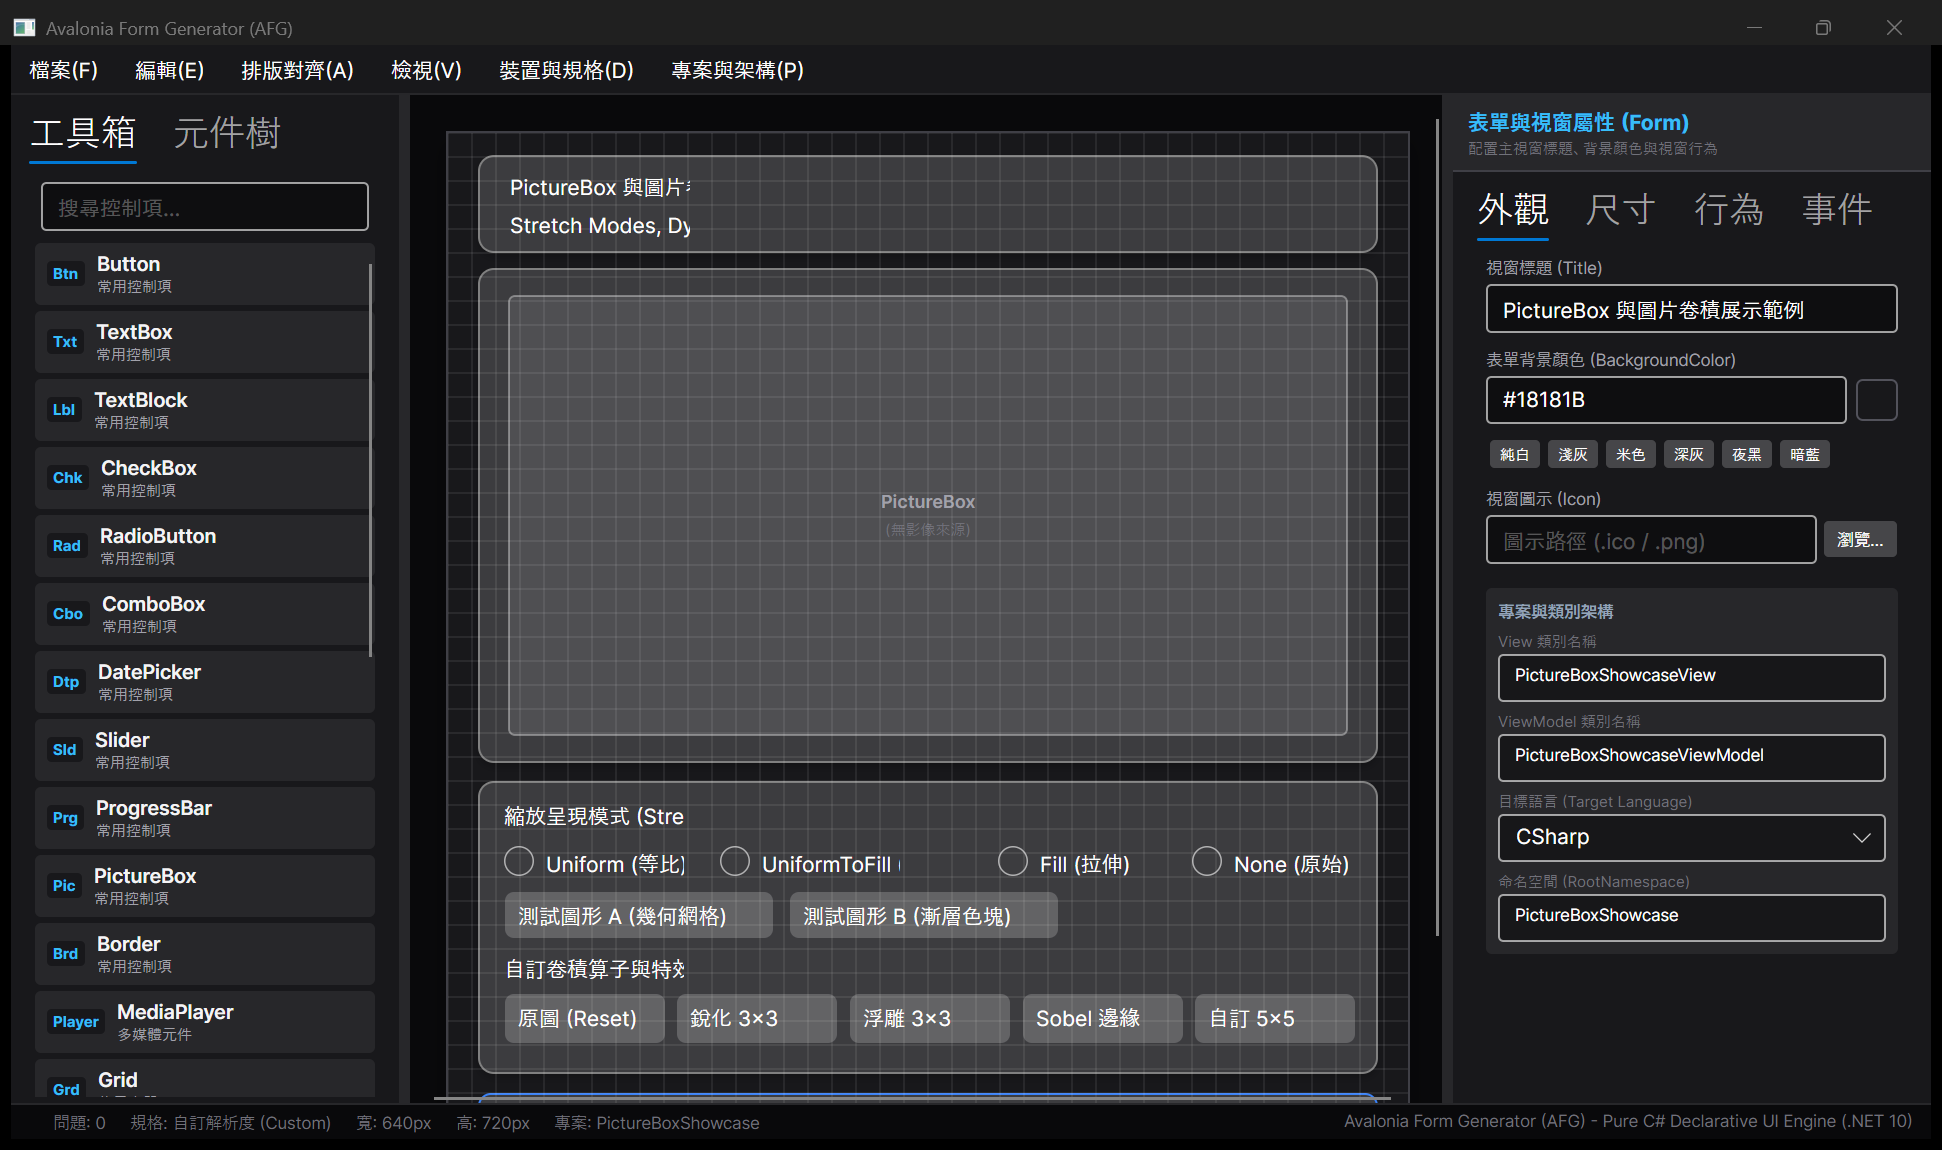
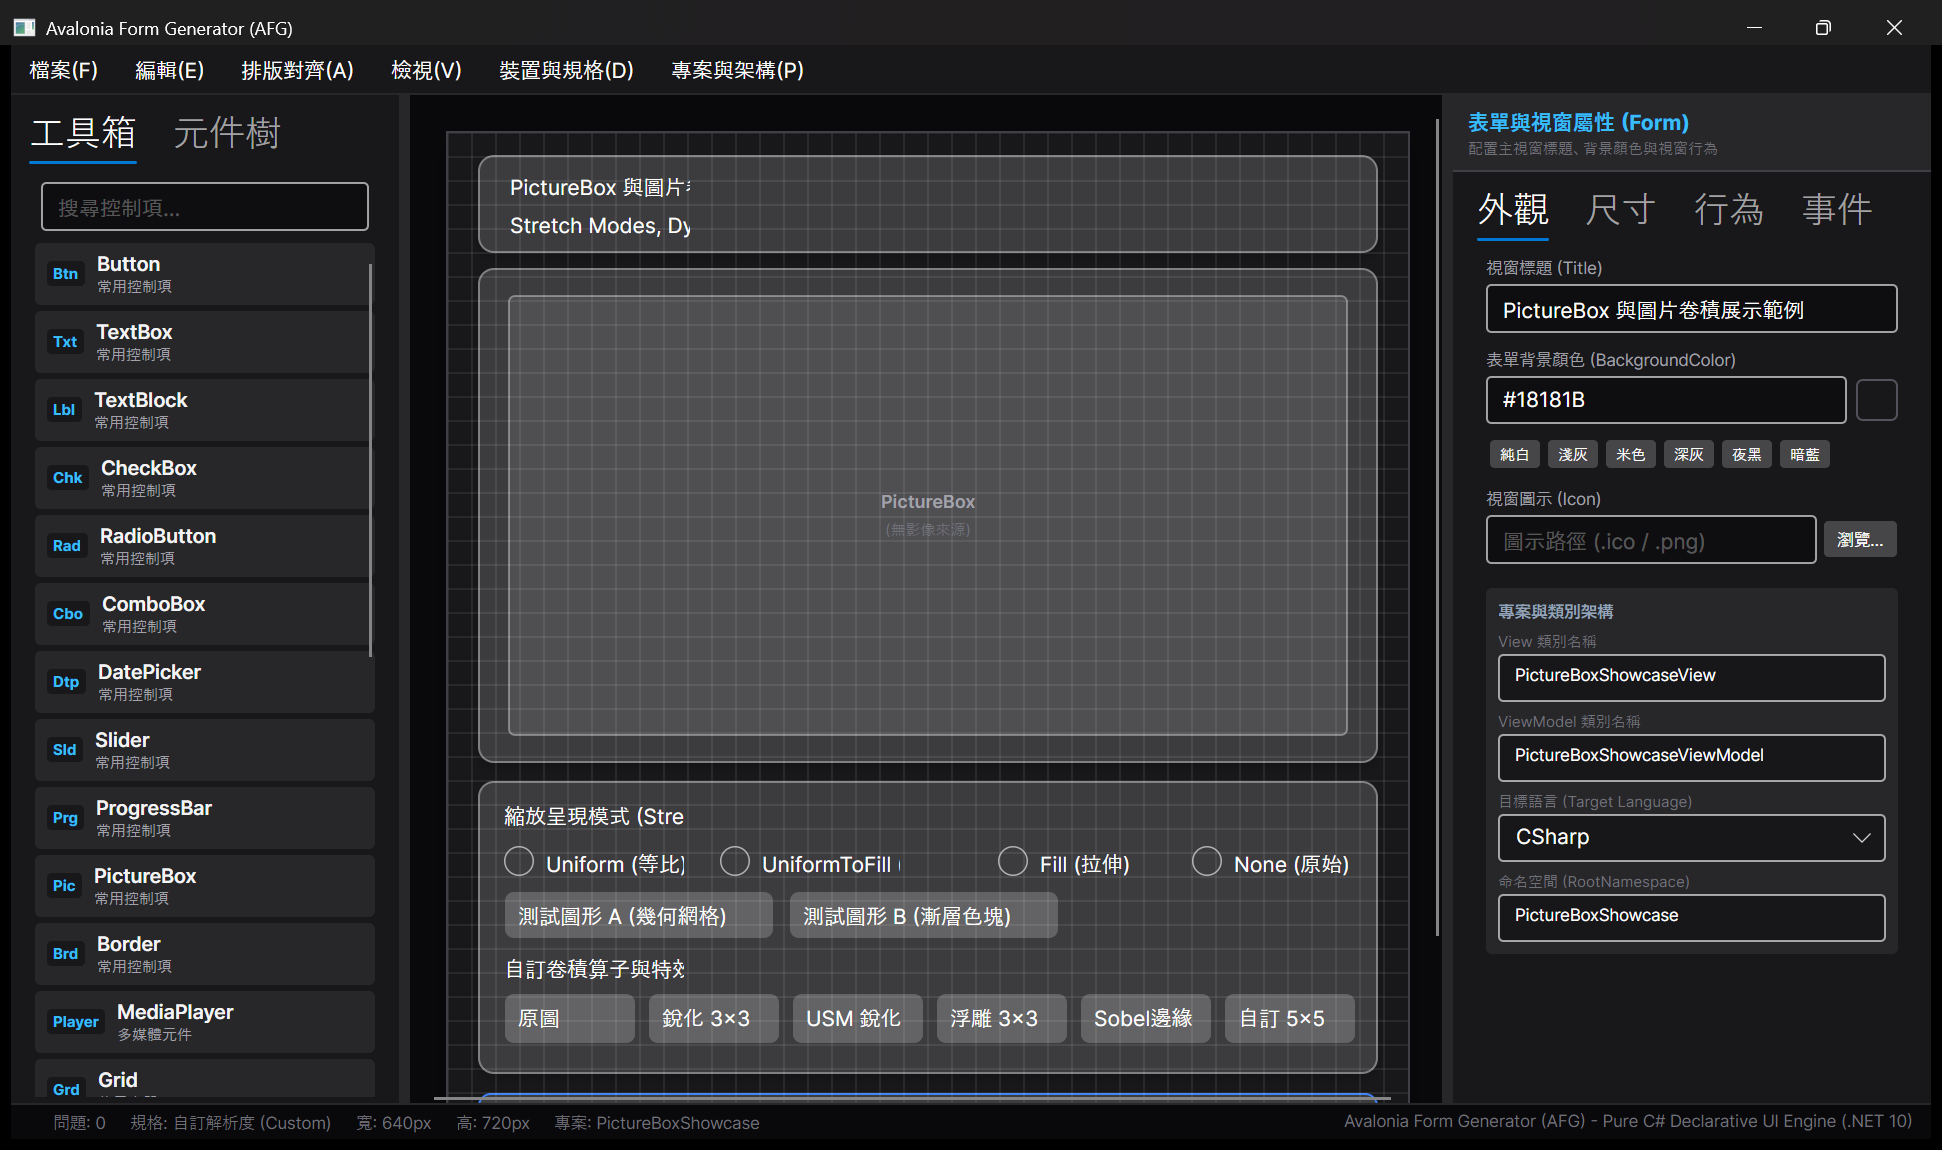
feat(examples): add USM filter to PictureBox
Rearrange the PictureBoxShowcase convolution bar into six
symmetric buttons including USM Sharpen using the new
UnsharpMask extension, update AST and README documentation,
and recapture unclipped full-window screenshots.

Changed region(s): [[0.2781, 0.8522, 0.6797, 0.913], [0.0309, 0.0, 0.1545, 0.0304]]

diff --git a/tests/AFG.Core.Tests/ShowcaseExamplesDocumentBuilder.cs b/tests/AFG.Core.Tests/ShowcaseExamplesDocumentBuilder.cs
@@ -456,11 +456,12 @@ public static class ShowcaseExamplesDocumentBuilder
                             new AstNode { Id = "btnSampleA", Name = "btnSampleA", Type = ControlType.Button, CanvasLeft = 16, CanvasTop = 72, Width = 180, Height = 32, Content = "測試圖形 A (幾何網格)", Background = "#4F46E5", Foreground = "#FFFFFF", FontSize = 12, CornerRadius = new CornerRadiusModel(6, 6, 6, 6), Events = [new EventMappingDefinition { EventName = "Click", CommandProperty = "LoadSampleACommand", IsAsync = true }] },
                             new AstNode { Id = "btnSampleB", Name = "btnSampleB", Type = ControlType.Button, CanvasLeft = 206, CanvasTop = 72, Width = 180, Height = 32, Content = "測試圖形 B (漸層色塊)", Background = "#059669", Foreground = "#FFFFFF", FontSize = 12, CornerRadius = new CornerRadiusModel(6, 6, 6, 6), Events = [new EventMappingDefinition { EventName = "Click", CommandProperty = "LoadSampleBCommand", IsAsync = true }] },
                             new AstNode { Id = "lblConvTitle", Name = "lblConvTitle", Type = ControlType.TextBlock, CanvasLeft = 16, CanvasTop = 114, Text = "自訂卷積算子與特效 (ImageConvolution)：", FontSize = 13, FontWeight = "Bold", Foreground = "#F472B6" },
-                            new AstNode { Id = "btnConvReset", Name = "btnConvReset", Type = ControlType.Button, CanvasLeft = 16, CanvasTop = 140, Width = 108, Height = 34, Content = "原圖 (Reset)", Background = "#475569", Foreground = "#FFFFFF", FontSize = 11, CornerRadius = new CornerRadiusModel(6, 6, 6, 6), Events = [new EventMappingDefinition { EventName = "Click", CommandProperty = "ResetFilterCommand", IsAsync = false }] },
-                            new AstNode { Id = "btnConvSharpen", Name = "btnConvSharpen", Type = ControlType.Button, CanvasLeft = 131, CanvasTop = 140, Width = 108, Height = 34, Content = "銳化 3×3", Background = "#0284C7", Foreground = "#FFFFFF", FontSize = 11, CornerRadius = new CornerRadiusModel(6, 6, 6, 6), Events = [new EventMappingDefinition { EventName = "Click", CommandProperty = "ApplySharpenCommand", IsAsync = false }] },
-                            new AstNode { Id = "btnConvEmboss", Name = "btnConvEmboss", Type = ControlType.Button, CanvasLeft = 246, CanvasTop = 140, Width = 108, Height = 34, Content = "浮雕 3×3", Background = "#7C3AED", Foreground = "#FFFFFF", FontSize = 11, CornerRadius = new CornerRadiusModel(6, 6, 6, 6), Events = [new EventMappingDefinition { EventName = "Click", CommandProperty = "ApplyEmbossCommand", IsAsync = false }] },
-                            new AstNode { Id = "btnConvSobel", Name = "btnConvSobel", Type = ControlType.Button, CanvasLeft = 361, CanvasTop = 140, Width = 108, Height = 34, Content = "Sobel 邊緣", Background = "#EA580C", Foreground = "#FFFFFF", FontSize = 11, CornerRadius = new CornerRadiusModel(6, 6, 6, 6), Events = [new EventMappingDefinition { EventName = "Click", CommandProperty = "ApplySobelCommand", IsAsync = false }] },
-                            new AstNode { Id = "btnConvCustom", Name = "btnConvCustom", Type = ControlType.Button, CanvasLeft = 476, CanvasTop = 140, Width = 108, Height = 34, Content = "自訂 5×5", Background = "#DB2777", Foreground = "#FFFFFF", FontSize = 11, CornerRadius = new CornerRadiusModel(6, 6, 6, 6), Events = [new EventMappingDefinition { EventName = "Click", CommandProperty = "ApplyCustomKernelCommand", IsAsync = false }] }
+                            new AstNode { Id = "btnConvReset", Name = "btnConvReset", Type = ControlType.Button, CanvasLeft = 16, CanvasTop = 140, Width = 88, Height = 34, Content = "原圖", Background = "#475569", Foreground = "#FFFFFF", FontSize = 11, CornerRadius = new CornerRadiusModel(6, 6, 6, 6), Events = [new EventMappingDefinition { EventName = "Click", CommandProperty = "ResetFilterCommand", IsAsync = false }] },
+                            new AstNode { Id = "btnConvSharpen", Name = "btnConvSharpen", Type = ControlType.Button, CanvasLeft = 112, CanvasTop = 140, Width = 88, Height = 34, Content = "銳化 3×3", Background = "#0284C7", Foreground = "#FFFFFF", FontSize = 11, CornerRadius = new CornerRadiusModel(6, 6, 6, 6), Events = [new EventMappingDefinition { EventName = "Click", CommandProperty = "ApplySharpenCommand", IsAsync = false }] },
+                            new AstNode { Id = "btnConvUnsharp", Name = "btnConvUnsharp", Type = ControlType.Button, CanvasLeft = 208, CanvasTop = 140, Width = 88, Height = 34, Content = "USM 銳化", Background = "#0D9488", Foreground = "#FFFFFF", FontSize = 11, CornerRadius = new CornerRadiusModel(6, 6, 6, 6), Events = [new EventMappingDefinition { EventName = "Click", CommandProperty = "ApplyUnsharpMaskCommand", IsAsync = false }] },
+                            new AstNode { Id = "btnConvEmboss", Name = "btnConvEmboss", Type = ControlType.Button, CanvasLeft = 304, CanvasTop = 140, Width = 88, Height = 34, Content = "浮雕 3×3", Background = "#7C3AED", Foreground = "#FFFFFF", FontSize = 11, CornerRadius = new CornerRadiusModel(6, 6, 6, 6), Events = [new EventMappingDefinition { EventName = "Click", CommandProperty = "ApplyEmbossCommand", IsAsync = false }] },
+                            new AstNode { Id = "btnConvSobel", Name = "btnConvSobel", Type = ControlType.Button, CanvasLeft = 400, CanvasTop = 140, Width = 88, Height = 34, Content = "Sobel邊緣", Background = "#EA580C", Foreground = "#FFFFFF", FontSize = 11, CornerRadius = new CornerRadiusModel(6, 6, 6, 6), Events = [new EventMappingDefinition { EventName = "Click", CommandProperty = "ApplySobelCommand", IsAsync = false }] },
+                            new AstNode { Id = "btnConvCustom", Name = "btnConvCustom", Type = ControlType.Button, CanvasLeft = 496, CanvasTop = 140, Width = 88, Height = 34, Content = "自訂 5×5", Background = "#DB2777", Foreground = "#FFFFFF", FontSize = 11, CornerRadius = new CornerRadiusModel(6, 6, 6, 6), Events = [new EventMappingDefinition { EventName = "Click", CommandProperty = "ApplyCustomKernelCommand", IsAsync = false }] }
                         ]
                     },
 

diff --git a/example/PictureBoxShowcase/src/PictureBoxShowcase.Shared/Views/PictureBoxShowcaseView.cs b/example/PictureBoxShowcase/src/PictureBoxShowcase.Shared/Views/PictureBoxShowcaseView.cs
@@ -23,6 +23,7 @@ public partial class PictureBoxShowcaseView : UserControl
     private TextBlock _lblConvTitle;
     private Button _btnConvReset;
     private Button _btnConvSharpen;
+    private Button _btnConvUnsharp;
     private Button _btnConvEmboss;
     private Button _btnConvSobel;
     private Button _btnConvCustom;
@@ -178,11 +179,11 @@ public partial class PictureBoxShowcaseView : UserControl
                         // btnConvReset
                         _btnConvReset = new Button()
                             .Name("btnConvReset")
-                            .Width(108)
+                            .Width(88)
                             .Height(34)
                             .CanvasLeft(16)
                             .CanvasTop(140)
-                            .Content("原圖 (Reset)")
+                            .Content("原圖")
                             .FontSize(11)
                             .Background(Brush.Parse("#475569"))
                             .Foreground(Brush.Parse("#FFFFFF"))
@@ -191,9 +192,9 @@ public partial class PictureBoxShowcaseView : UserControl
                         // btnConvSharpen
                         _btnConvSharpen = new Button()
                             .Name("btnConvSharpen")
-                            .Width(108)
+                            .Width(88)
                             .Height(34)
-                            .CanvasLeft(131)
+                            .CanvasLeft(112)
                             .CanvasTop(140)
                             .Content("銳化 3×3")
                             .FontSize(11)
@@ -201,12 +202,25 @@ public partial class PictureBoxShowcaseView : UserControl
                             .Foreground(Brush.Parse("#FFFFFF"))
                             .CornerRadius(new CornerRadius(6, 6, 6, 6))
                             .OnClick((PictureBoxShowcaseViewModel vm) => vm.ApplySharpenCommand),
+                        // btnConvUnsharp
+                        _btnConvUnsharp = new Button()
+                            .Name("btnConvUnsharp")
+                            .Width(88)
+                            .Height(34)
+                            .CanvasLeft(208)
+                            .CanvasTop(140)
+                            .Content("USM 銳化")
+                            .FontSize(11)
+                            .Background(Brush.Parse("#0D9488"))
+                            .Foreground(Brush.Parse("#FFFFFF"))
+                            .CornerRadius(new CornerRadius(6, 6, 6, 6))
+                            .OnClick((PictureBoxShowcaseViewModel vm) => vm.ApplyUnsharpMaskCommand),
                         // btnConvEmboss
                         _btnConvEmboss = new Button()
                             .Name("btnConvEmboss")
-                            .Width(108)
+                            .Width(88)
                             .Height(34)
-                            .CanvasLeft(246)
+                            .CanvasLeft(304)
                             .CanvasTop(140)
                             .Content("浮雕 3×3")
                             .FontSize(11)
@@ -217,11 +231,11 @@ public partial class PictureBoxShowcaseView : UserControl
                         // btnConvSobel
                         _btnConvSobel = new Button()
                             .Name("btnConvSobel")
-                            .Width(108)
+                            .Width(88)
                             .Height(34)
-                            .CanvasLeft(361)
+                            .CanvasLeft(400)
                             .CanvasTop(140)
-                            .Content("Sobel 邊緣")
+                            .Content("Sobel邊緣")
                             .FontSize(11)
                             .Background(Brush.Parse("#EA580C"))
                             .Foreground(Brush.Parse("#FFFFFF"))
@@ -230,9 +244,9 @@ public partial class PictureBoxShowcaseView : UserControl
                         // btnConvCustom
                         _btnConvCustom = new Button()
                             .Name("btnConvCustom")
-                            .Width(108)
+                            .Width(88)
                             .Height(34)
-                            .CanvasLeft(476)
+                            .CanvasLeft(496)
                             .CanvasTop(140)
                             .Content("自訂 5×5")
                             .FontSize(11)

diff --git a/example/PictureBoxShowcase/ShowcaseBuilder.cs b/example/PictureBoxShowcase/ShowcaseBuilder.cs
@@ -282,11 +282,11 @@ public static class ShowcaseBuilder
             Id = "btnConvReset",
             Name = "btnConvReset",
             Type = ControlType.Button,
-            Width = 108,
+            Width = 88,
             Height = 34,
             CanvasLeft = 16,
             CanvasTop = 140,
-            Content = "原圖 (Reset)",
+            Content = "原圖",
             Background = "#475569",
             Foreground = "#FFFFFF",
             FontSize = 11,
@@ -299,9 +299,9 @@ public static class ShowcaseBuilder
             Id = "btnConvSharpen",
             Name = "btnConvSharpen",
             Type = ControlType.Button,
-            Width = 108,
+            Width = 88,
             Height = 34,
-            CanvasLeft = 131,
+            CanvasLeft = 112,
             CanvasTop = 140,
             Content = "銳化 3×3",
             Background = "#0284C7",
@@ -311,14 +311,31 @@ public static class ShowcaseBuilder
             Events = [new EventMappingDefinition { EventName = "Click", CommandProperty = "ApplySharpenCommand", IsAsync = false }]
         };
 
+        var btnConvUnsharp = new AstNode
+        {
+            Id = "btnConvUnsharp",
+            Name = "btnConvUnsharp",
+            Type = ControlType.Button,
+            Width = 88,
+            Height = 34,
+            CanvasLeft = 208,
+            CanvasTop = 140,
+            Content = "USM 銳化",
+            Background = "#0D9488",
+            Foreground = "#FFFFFF",
+            FontSize = 11,
+            CornerRadius = new CornerRadiusModel(6),
+            Events = [new EventMappingDefinition { EventName = "Click", CommandProperty = "ApplyUnsharpMaskCommand", IsAsync = false }]
+        };
+
         var btnConvEmboss = new AstNode
         {
             Id = "btnConvEmboss",
             Name = "btnConvEmboss",
             Type = ControlType.Button,
-            Width = 108,
+            Width = 88,
             Height = 34,
-            CanvasLeft = 246,
+            CanvasLeft = 304,
             CanvasTop = 140,
             Content = "浮雕 3×3",
             Background = "#7C3AED",
@@ -333,11 +350,11 @@ public static class ShowcaseBuilder
             Id = "btnConvSobel",
             Name = "btnConvSobel",
             Type = ControlType.Button,
-            Width = 108,
+            Width = 88,
             Height = 34,
-            CanvasLeft = 361,
+            CanvasLeft = 400,
             CanvasTop = 140,
-            Content = "Sobel 邊緣",
+            Content = "Sobel邊緣",
             Background = "#EA580C",
             Foreground = "#FFFFFF",
             FontSize = 11,
@@ -350,9 +367,9 @@ public static class ShowcaseBuilder
             Id = "btnConvCustom",
             Name = "btnConvCustom",
             Type = ControlType.Button,
-            Width = 108,
+            Width = 88,
             Height = 34,
-            CanvasLeft = 476,
+            CanvasLeft = 496,
             CanvasTop = 140,
             Content = "自訂 5×5",
             Background = "#DB2777",
@@ -386,6 +403,7 @@ public static class ShowcaseBuilder
                 lblConvTitle,
                 btnConvReset,
                 btnConvSharpen,
+                btnConvUnsharp,
                 btnConvEmboss,
                 btnConvSobel,
                 btnConvCustom

diff --git a/example/PictureBoxShowcase/src/PictureBoxShowcase.Shared/ViewModels/PictureBoxShowcaseViewModel.cs b/example/PictureBoxShowcase/src/PictureBoxShowcase.Shared/ViewModels/PictureBoxShowcaseViewModel.cs
@@ -181,7 +181,26 @@ public partial class PictureBoxShowcaseViewModel : ObservableObject
     }
 
     [RelayCommand]
-    private void ApplySharpen() => ApplyKernelCore("銳化 3×3", ConvolutionKernel.Sharpen);
+    private void ApplySharpen()
+    {
+        long startTimestamp = Stopwatch.GetTimestamp();
+        WriteableBitmap filtered = _sourceBitmap.Sharpen(1.0f);
+        _lastFilterElapsedMs = Stopwatch.GetElapsedTime(startTimestamp).TotalMilliseconds;
+        _currentFilterName = "銳化 3×3";
+        ImageSource = filtered;
+        UpdateImageInfoText();
+    }
+
+    [RelayCommand]
+    private void ApplyUnsharpMask()
+    {
+        long startTimestamp = Stopwatch.GetTimestamp();
+        WriteableBitmap filtered = _sourceBitmap.UnsharpMask(radius: 3, amount: 1.5f, threshold: 4.0f);
+        _lastFilterElapsedMs = Stopwatch.GetElapsedTime(startTimestamp).TotalMilliseconds;
+        _currentFilterName = "USM 銳化 (r=3)";
+        ImageSource = filtered;
+        UpdateImageInfoText();
+    }
 
     [RelayCommand]
     private void ApplyEmboss() => ApplyKernelCore("浮雕 3×3", ConvolutionKernel.Emboss);

diff --git a/example/PictureBoxShowcase/README.md b/example/PictureBoxShowcase/README.md
@@ -80,11 +80,12 @@ example/PictureBoxShowcase/
 | ├── `btnSampleA` | `Button` | `(16, 72) 180 × 32` | `Click` 映射 `LoadSampleACommand` | 載入科技幾何網格 (800 × 600) |
 | ├── `btnSampleB` | `Button` | `(206, 72) 180 × 32` | `Click` 映射 `LoadSampleBCommand` | 載入同心光環光譜 (1024 × 768) |
 | ├── `lblConvTitle` | `TextBlock` | `(16, 114)` | Text: `"自訂卷積算子與特效 (ImageConvolution)："` | 卷積控制區塊標題 (13pt Bold, `#F472B6`) |
-| ├── `btnConvReset` | `Button` | `(16, 140) 108 × 34` | `Click` 映射 `ResetFilterCommand` | 還原未經濾鏡處理的原始影像 |
-| ├── `btnConvSharpen` | `Button` | `(131, 140) 108 × 34` | `Click` 映射 `ApplySharpenCommand` | 套用內建 3×3 銳化卷積 (`ConvolutionKernel.Sharpen`) |
-| ├── `btnConvEmboss` | `Button` | `(246, 140) 108 × 34` | `Click` 映射 `ApplyEmbossCommand` | 套用浮雕算子 (`ConvolutionKernel.Emboss`) |
-| ├── `btnConvSobel` | `Button` | `(361, 140) 108 × 34` | `Click` 映射 `ApplySobelCommand` | RGB 雙核梯度邊緣偵測 (`ConvolutionKernel.Sobel`) |
-| └── `btnConvCustom` | `Button` | `(476, 140) 108 × 34` | `Click` 映射 `ApplyCustomKernelCommand` | 套用使用者自訂 5×5 卷積核與結構後處理器 |
+| ├── `btnConvReset` | `Button` | `(16, 140) 88 × 34` | `Click` 映射 `ResetFilterCommand` | 還原未經濾鏡處理的原始影像 |
+| ├── `btnConvSharpen` | `Button` | `(112, 140) 88 × 34` | `Click` 映射 `ApplySharpenCommand` | 套用 3×3 銳化擴充 (`BitmapExtensions.Sharpen`) |
+| ├── `btnConvUnsharp` | `Button` | `(208, 140) 88 × 34` | `Click` 映射 `ApplyUnsharpMaskCommand` | 套用反銳化遮罩 (`BitmapExtensions.UnsharpMask`) |
+| ├── `btnConvEmboss` | `Button` | `(304, 140) 88 × 34` | `Click` 映射 `ApplyEmbossCommand` | 套用浮雕算子 (`ConvolutionKernel.Emboss`) |
+| ├── `btnConvSobel` | `Button` | `(400, 140) 88 × 34` | `Click` 映射 `ApplySobelCommand` | RGB 雙核梯度邊緣偵測 (`ConvolutionKernel.Sobel`) |
+| └── `btnConvCustom` | `Button` | `(496, 140) 88 × 34` | `Click` 映射 `ApplyCustomKernelCommand` | 套用使用者自訂 5×5 卷積核與結構後處理器 |
 | **infoCard** | `Border` | `(20, 640) 600 × 65` | — | 圖片中繼資料與濾鏡耗時反饋卡片 |
 | └── `txtImageInfo` | `TextBlock` | `(20, 22)` | `Text` 單向綁定 `ImageInfoText` | 呈現尺寸、長寬比、模式與樣本資訊 |
 
